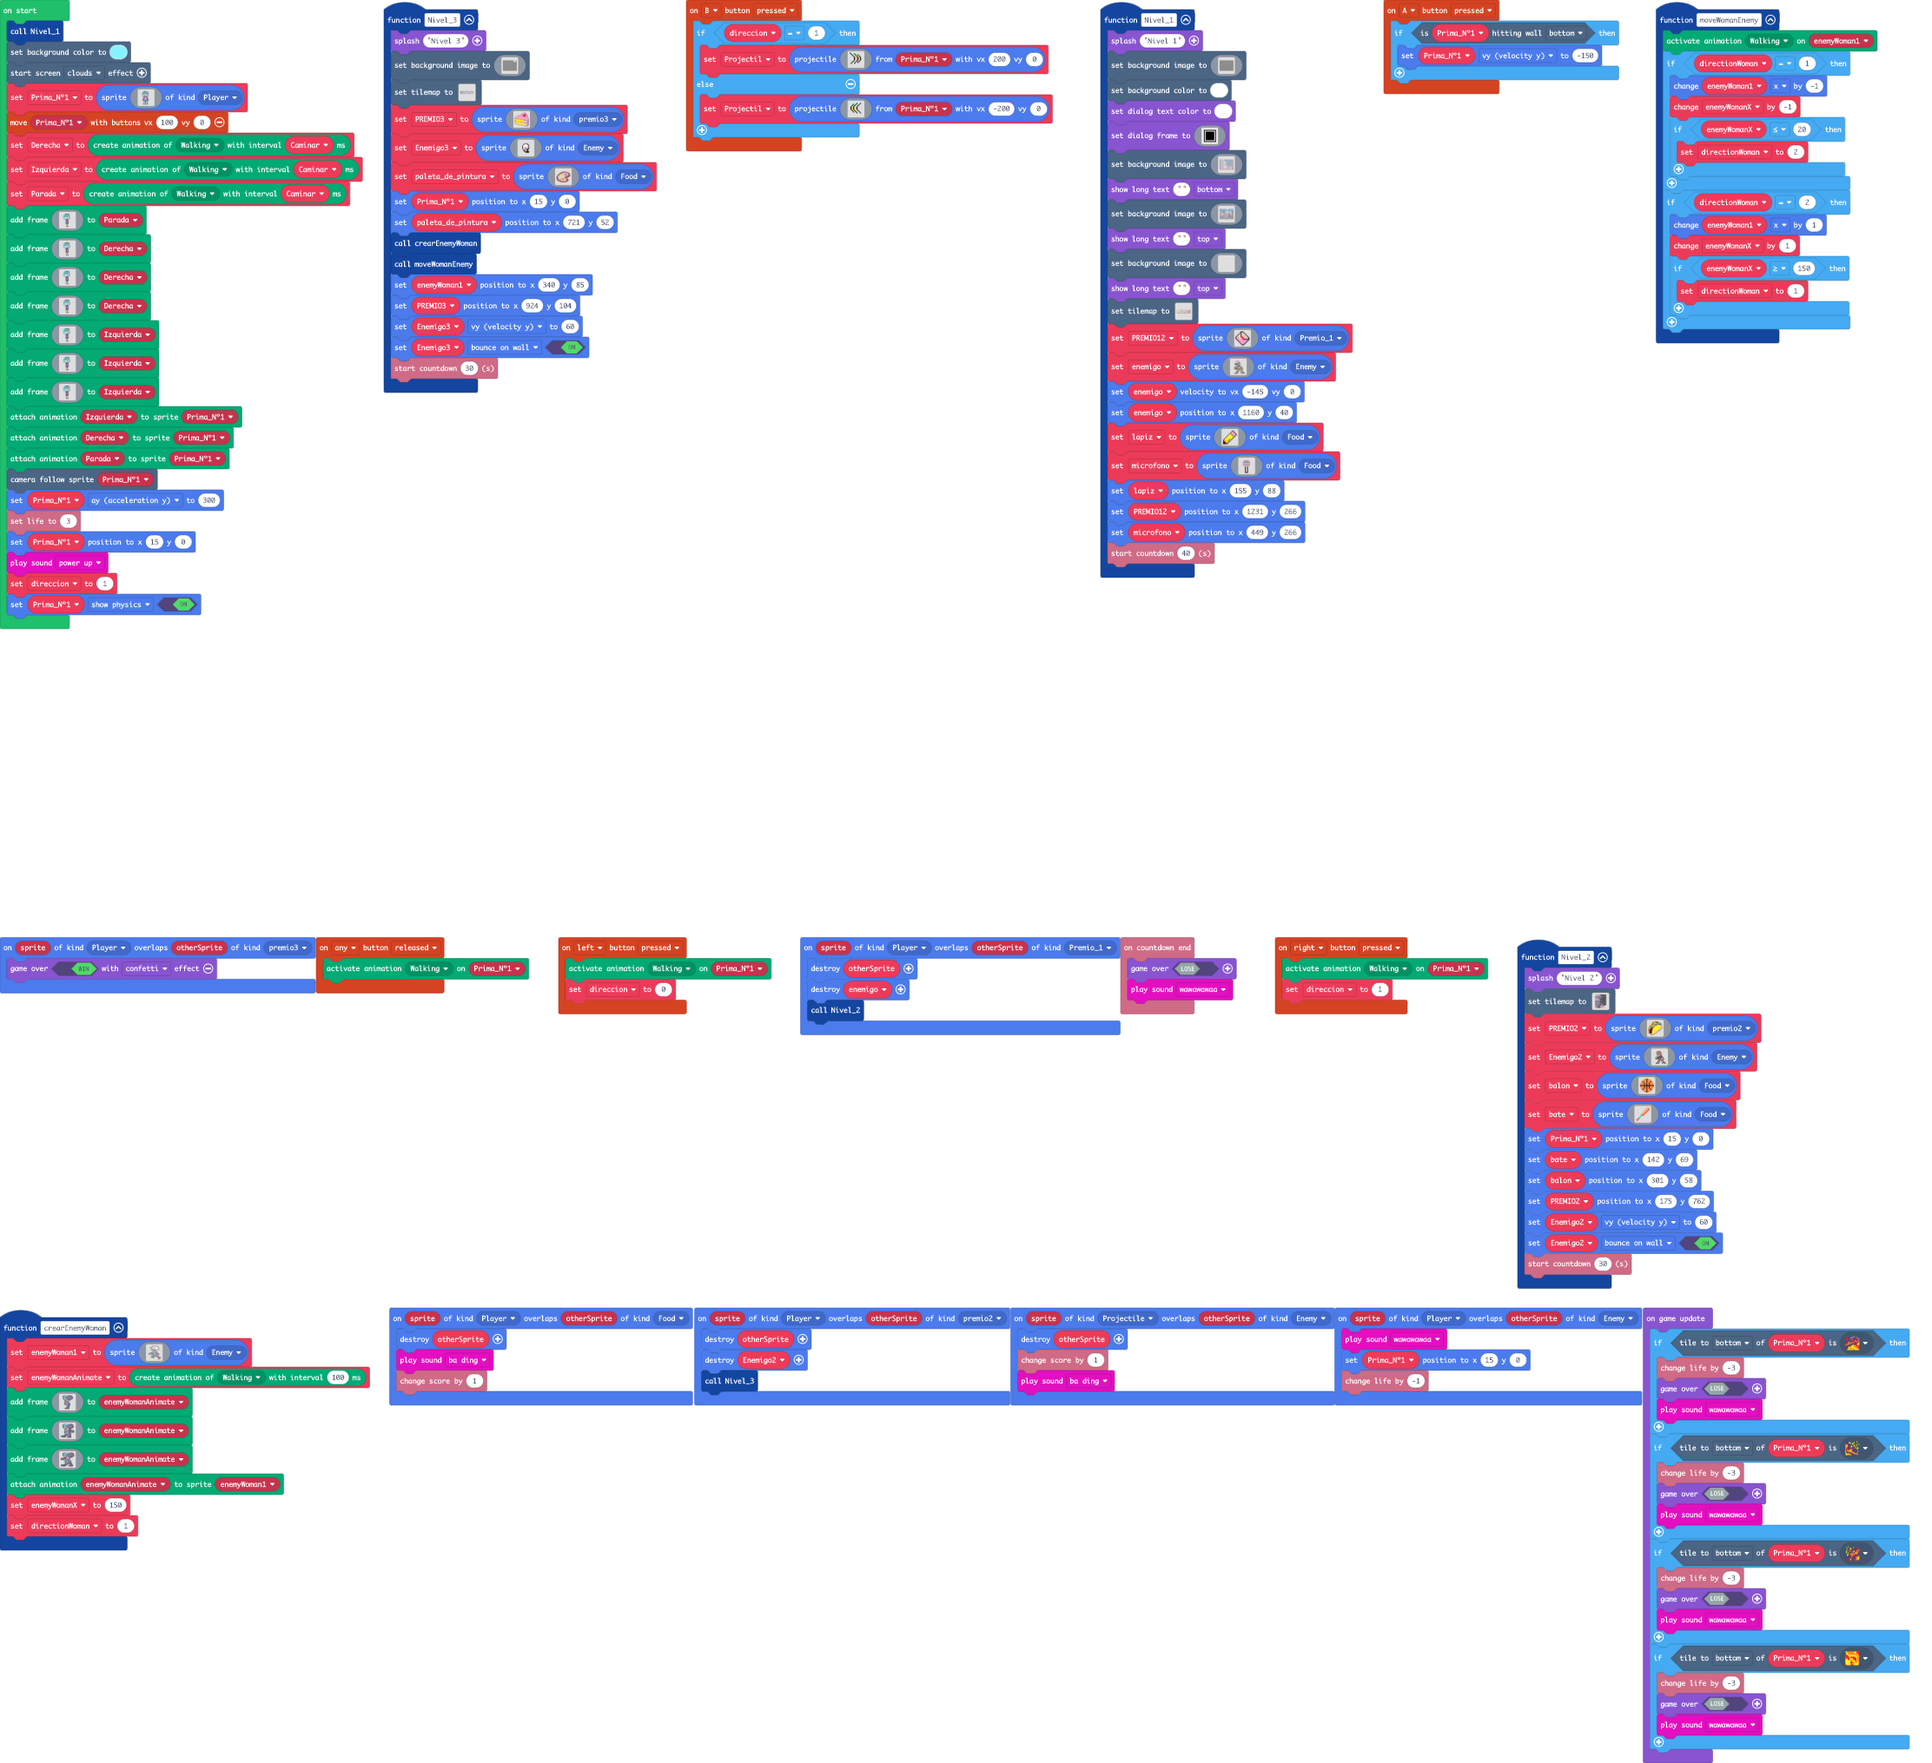
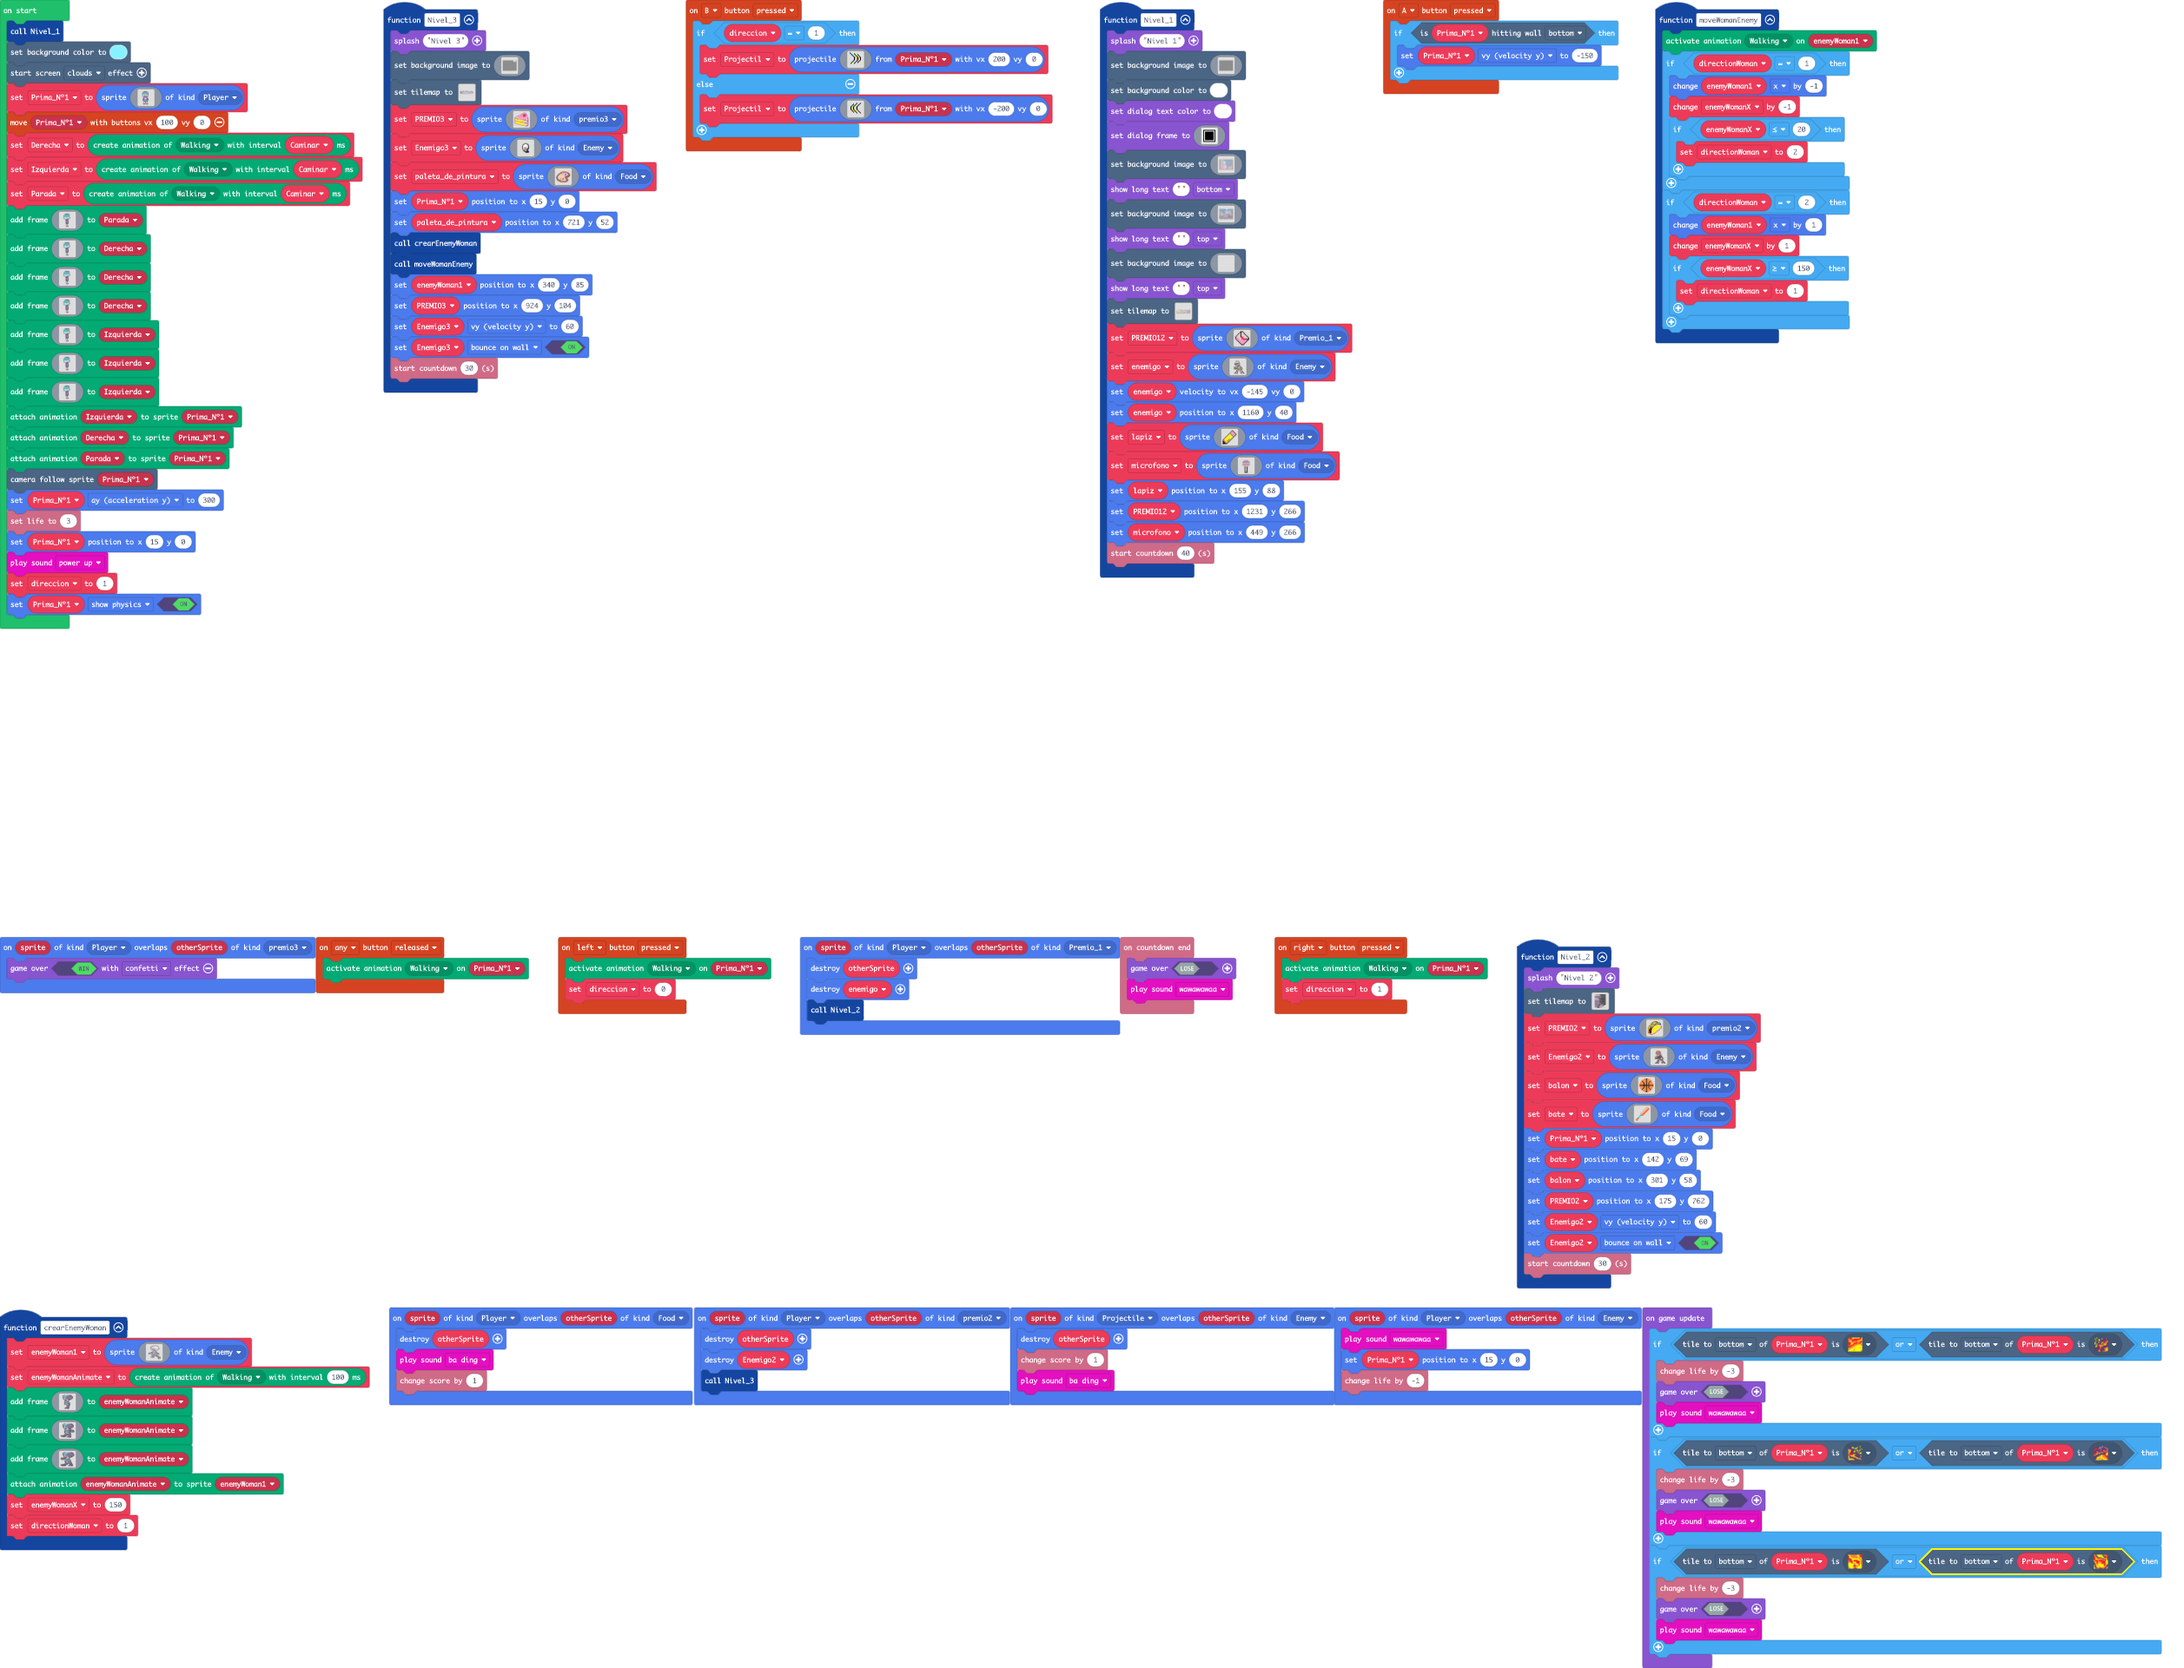
Update main.blocks, main.ts

diff --git a/main.ts b/main.ts
@@ -1848,22 +1848,17 @@ music.powerUp.play()
 direccion = 1
 Prima_Nº1.setFlag(SpriteFlag.ShowPhysics, true)
 game.onUpdate(function () {
-    if (Prima_Nº1.tileKindAt(TileDirection.Bottom, myTiles.tile123)) {
+    if (Prima_Nº1.tileKindAt(TileDirection.Bottom, myTiles.tile120) || Prima_Nº1.tileKindAt(TileDirection.Bottom, myTiles.tile121)) {
         info.changeLifeBy(-3)
         game.over(false)
         music.wawawawaa.play()
     }
-    if (Prima_Nº1.tileKindAt(TileDirection.Bottom, myTiles.tile122)) {
+    if (Prima_Nº1.tileKindAt(TileDirection.Bottom, myTiles.tile122) || Prima_Nº1.tileKindAt(TileDirection.Bottom, myTiles.tile123)) {
         info.changeLifeBy(-3)
         game.over(false)
         music.wawawawaa.play()
     }
-    if (Prima_Nº1.tileKindAt(TileDirection.Bottom, myTiles.tile121)) {
-        info.changeLifeBy(-3)
-        game.over(false)
-        music.wawawawaa.play()
-    }
-    if (Prima_Nº1.tileKindAt(TileDirection.Bottom, myTiles.tile124)) {
+    if (Prima_Nº1.tileKindAt(TileDirection.Bottom, myTiles.tile124) || Prima_Nº1.tileKindAt(TileDirection.Bottom, myTiles.tile125)) {
         info.changeLifeBy(-3)
         game.over(false)
         music.wawawawaa.play()
